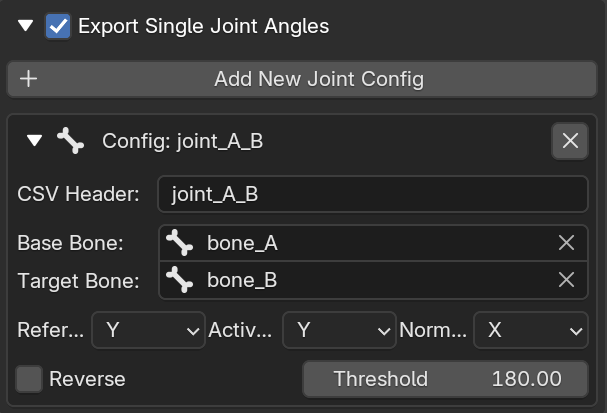
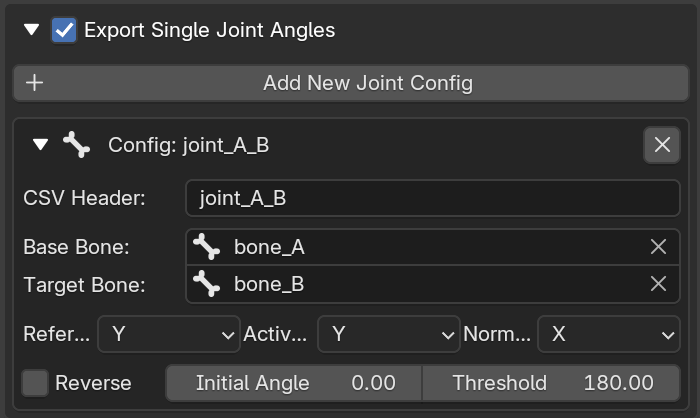
main:Fixed the base_link bone export bug. This version of the bone pose export will not be affected by the bone's scaling and rotation attributes. The exported position and quaternion rotation are the positions and rotations seen by the user when they actually play the animation.

diff --git a/pose2roboaction/operators.py b/pose2roboaction/operators.py
@@ -2,7 +2,7 @@ import bpy
 import csv
 import math
 import mathutils
-import os # 【新增】：引入操作系统模块，用于自动创建文件夹
+import os
 from bpy.props import IntProperty
 from bpy.app.translations import pgettext_iface as iface_
 from .math_utils import get_bone_axis_vector, calculate_planar_angle_0_360
@@ -115,7 +115,6 @@ class Pose2Robo_OT_ExportCSV(bpy.types.Operator):
             props = scene.pose2robo_settings
             obj = props.target_armature
 
-            # 保留你习惯的数值，不作修改
             batch_size = 10 
             
             try:
@@ -131,17 +130,18 @@ class Pose2Robo_OT_ExportCSV(bpy.types.Operator):
                     
                     if self.valid_a_bone:
                         pb = obj.pose.bones[self.valid_a_bone]
-                        mat_world = pb.matrix 
-                        loc = mat_world.to_translation()
+                        
+                        mat_world = obj.matrix_world @ pb.matrix
+                        loc, rot, sca = mat_world.decompose()
+                        
                         row.extend([f"{loc.x:.6f}", f"{loc.y:.6f}", f"{loc.z:.6f}"])
                         
-                        raw_quat = mat_world.to_quaternion()
                         corr_rad = props.correction_euler
                         if any(abs(a) > 1e-5 for a in corr_rad):
                             corr_quat = mathutils.Euler((corr_rad.x, corr_rad.y, corr_rad.z), 'XYZ').to_quaternion()
-                            final_quat = raw_quat @ corr_quat
+                            final_quat = rot @ corr_quat
                         else:
-                            final_quat = raw_quat
+                            final_quat = rot
                             
                         row.extend([
                             f"{final_quat.x:.6f}", f"{final_quat.y:.6f}",
@@ -159,21 +159,37 @@ class Pose2Robo_OT_ExportCSV(bpy.types.Operator):
                         theta_curr = calculate_planar_angle_0_360(vec_k, vec_i, vec_j)
                         theta_rest = self.rest_angles[item.joint_name]
                         
-                        val = theta_curr - theta_rest
+                        # --- 【核心算法优化：引入 Offset 和真实 URDF 越界判定】 ---
                         
-                        while val < 0.0: val += 360.0
-                        while val >= 360.0: val -= 360.0
-
-                        if val > item.threshold:
-                            val = val - 360.0
+                        # 1. 计算 Blender 里的原始运动量
+                        delta_blender = theta_curr - theta_rest
                         
-                        if item.is_reverse:
-                            val = -val
+                        # 2. 映射运动方向 (仅反转相对运动量)
+                        delta_move = -delta_blender if item.is_reverse else delta_blender
                         
+                        # 3. 处理用户输入的初始角度单位 (将其统一转换为度数进行计算)
+                        offset_val = item.offset_angle
                         if props.angle_unit == 'RADIAN':
-                            final_val = math.radians(val)
+                            offset_deg = math.degrees(offset_val)
                         else:
-                            final_val = val
+                            offset_deg = offset_val
+                            
+                        # 4. 推算 URDF 绝对角度并归一化到圆盘
+                        theta_abs = offset_deg + delta_move
+                        theta_abs = theta_abs % 360.0  # 完美替代了之前的两个 while 循环
+                        
+                        # 5. URDF 真实阈值判定
+                        if theta_abs > item.threshold:
+                            final_deg = theta_abs - 360.0
+                        else:
+                            final_deg = theta_abs
+                        
+                        # 6. 单位输出
+                        if props.angle_unit == 'RADIAN':
+                            final_val = math.radians(final_deg)
+                        else:
+                            final_val = final_deg
+                        # ------------------------------------------------------------
                             
                         row.append(f"{final_val:.6f}")
                         
@@ -201,12 +217,9 @@ class Pose2Robo_OT_ExportCSV(bpy.types.Operator):
         try:
             export_path = bpy.path.abspath(props.export_path)
             
-            # --- 【核心修改点】：智能检查并创建不存在的文件夹 ---
             dir_name = os.path.dirname(export_path)
             if dir_name:  
-                # exist_ok=True 代表如果文件夹已存在则忽略，不报错
                 os.makedirs(dir_name, exist_ok=True)
-            # ----------------------------------------------------
 
             with open(export_path, mode='w', newline='', encoding='utf-8') as file:
                 writer = csv.writer(file)

diff --git a/pose2roboaction/ui.py b/pose2roboaction/ui.py
@@ -16,13 +16,11 @@ class VIEW3D_PT_Pose2Robo_Main(Panel):
         # --- 1. 全局配置 ---
         box = layout.box()
         
-        # 绘制带折叠三角的标题栏
         header_global = box.row(align=True)
         icon_state_global = 'TRIA_DOWN' if props.is_expanded_global else 'TRIA_RIGHT'
         header_global.prop(props, "is_expanded_global", text="", icon=icon_state_global, emboss=False)
         header_global.label(text=iface_("Global Settings"), icon='WORLD')
         
-        # 只有在展开状态下才显示内部选项
         if props.is_expanded_global:
             col = box.column(align=True)
             col.prop(props, "export_path", text=iface_("Export Path"))
@@ -34,7 +32,6 @@ class VIEW3D_PT_Pose2Robo_Main(Panel):
             row_unit.prop(props, "angle_unit", expand=True) 
 
         # --- 2. Config A ---
-        #layout.separator()
         box_a = layout.box()
         
         header_a = box_a.row(align=True)
@@ -69,16 +66,13 @@ class VIEW3D_PT_Pose2Robo_Main(Panel):
             col.prop(props, "correction_euler", text=iface_("Euler Correction"))
 
         # --- 3. Config B ---
-        #layout.separator()
         box_b = layout.box()
         
-        # 带折叠三角的 Config B 头部栏
         header_b = box_b.row(align=True)
         icon_state_b = 'TRIA_DOWN' if props.is_expanded_b else 'TRIA_RIGHT'
         header_b.prop(props, "is_expanded_b", text="", icon=icon_state_b, emboss=False)
         header_b.prop(props, "export_joints", text=iface_("Export Single Joint Angles"))
         
-        # 只有展开且勾选时才显示内部的卡片流
         if props.is_expanded_b and props.export_joints:
             box_b.operator("pose2robo.list_add", icon='ADD', text=iface_("Add New Joint Config"))
             
@@ -114,9 +108,15 @@ class VIEW3D_PT_Pose2Robo_Main(Panel):
                     row_axes.prop(item, "axis_k", text=iface_("Normal k"))
                     col.separator()
                     
-                    row_opt = col.row(align=True)
-                    row_opt.prop(item, "is_reverse", text=iface_("Reverse"))
-                    row_opt.prop(item, "threshold", text=iface_("Threshold"))
+                    # 【核心修改】：将“初始角度”插入到布局中
+                    # 使用 split 手动划分宽度比例：前 20% 给复选框，后 75% 给数值框
+                    split = col.split(factor=0.2, align=True)
+                    split.prop(item, "is_reverse", text=iface_("Reverse"))
+
+                    # 在右侧的 75% 区域内创建一个紧凑的行
+                    row_floats = split.row(align=True)
+                    row_floats.prop(item, "offset_angle", text=iface_("Initial Angle"))
+                    row_floats.prop(item, "threshold", text=iface_("Threshold"))
 
         # --- 4. 动态显示 ---
         layout.separator()

diff --git a/pose2roboaction/properties.py b/pose2roboaction/properties.py
@@ -18,10 +18,11 @@ class Pose2Robo_JointItem(PropertyGroup):
     axis_k: EnumProperty(name="Axis K", items=axis_items, default='Z')
     
     is_reverse: BoolProperty(name="Reverse", default=False)
+    # 【新增】：初始角度（URDF零位偏移量）
+    offset_angle: FloatProperty(name="Initial Angle", default=0.0)
     threshold: FloatProperty(name="Threshold", default=180.0, min=0, max=360, soft_min=0, soft_max=360)
 
 class Pose2Robo_Settings(PropertyGroup):
-    # 【修改点】：将默认路径改为相对工程目录的 CsvOutput 文件夹
     export_path: StringProperty(name="Export Path", subtype='FILE_PATH', default="//CsvOutput/export.csv", options={'PATH_SUPPORTS_BLEND_RELATIVE'})
     target_armature: PointerProperty(name="Target Armature", type=bpy.types.Object)
 
@@ -35,9 +36,7 @@ class Pose2Robo_Settings(PropertyGroup):
         default='RADIAN'
     )
 
-    # --- 全局配置的展开状态控制 ---
     is_expanded_global: BoolProperty(name="Expand Global Panel", default=True)
-
     is_expanded_a: BoolProperty(name="Expand Panel A", default=True)
 
     export_root: BoolProperty(name="Export Single Bone Full Space Pose", default=True)
@@ -51,9 +50,7 @@ class Pose2Robo_Settings(PropertyGroup):
     rot_w_name: StringProperty(name="rot w", default="root rot w")
     correction_euler: FloatVectorProperty(name="Euler Correction", subtype='EULER', default=(0.0, 0.0, 0.0))
 
-    # --- Config B 的整体展开状态控制 ---
     is_expanded_b: BoolProperty(name="Expand Panel B", default=True)
-
     export_joints: BoolProperty(name="Export Single Joint Angles", default=True)
     joints_list: CollectionProperty(type=Pose2Robo_JointItem)
     list_index: IntProperty(name="List Index", default=0)

diff --git a/pose2roboaction/translations.py b/pose2roboaction/translations.py
@@ -28,6 +28,7 @@ zh_hans_dict = {
     ("*", "Active j"): "活动j",
     ("*", "Normal k"): "法线k",
     ("*", "Reverse"): "是否反转",
+    ("*", "Initial Angle"): "初始角度",
     ("*", "Threshold"): "角度阈值",
     ("*", "Start Exporting CSV Sequence"): "开始导出 CSV 序列",
     ("*", "Exporting..."): "导出中...",
@@ -88,6 +89,7 @@ zh_hant_dict = {
     ("*", "Active j"): "活動 j",
     ("*", "Normal k"): "法線 k",
     ("*", "Reverse"): "是否反轉",
+    ("*", "Initial Angle"): "初始角度",
     ("*", "Threshold"): "角度閾值",
     ("*", "Start Exporting CSV Sequence"): "開始導出 CSV 序列",
     ("*", "Exporting..."): "導出中...",

diff --git a/readme.md b/readme.md
@@ -71,6 +71,8 @@ Exporting an action sequence takes just three simple steps:
 
 - **Normal k**: Select one axis of the Base Bone's coordinate system to determine the plane onto which **Reference i** and **Active j** will be projected. This plane is the normal plane of **Normal k**. The angle is calculated after projecting **Reference i** and **Active j** onto this plane.
 
+- **Initial Angle**: Used to manually specify the absolute physical angle of the corresponding URDF joint on the real robot when the Blender armature is in its rest pose (Edit Mode). This value serves as the base zero-position offset for calculating the final absolute angle in the real world.
+
 - **Reverse**: Used to control whether the output value is multiplied by $-1$.
 
 - **Threshold**: The threshold to determine the forward/reverse rollover of the robot joint, defaulting to $180^\circ$. When the rotation angle exceeds this threshold, it will be remapped to a reverse rotation. (For example, if the threshold is set to $210^\circ$, when the joint angle is $200^\circ$ (Rest pose is considered $0^\circ$), the plugin exports it as $200^\circ$. If the angle exceeds the threshold, e.g., $300^\circ$, the plugin considers it as a reverse rotation of $60^\circ$ ($300^\circ - 360^\circ$) and exports it as $-60^\circ$).
@@ -127,27 +129,45 @@ $$
 Before exporting, the system pre-calculates the initial angle $\theta_{\text{rest}}$ when the armature is in its rest pose. When iterating through the animation frames, it calculates the net displacement for each frame:
 
 $$
-\Delta\theta = \theta_{\text{current}} - \theta_{\text{rest}}
+\Delta\theta_{\text{blender}} = \theta_{\text{current}} - \theta_{\text{rest}}
 $$
 
-#### 4. Post-Processing
+#### 4. URDF Angle Calculation & Post-Processing
 
-1. **Thresholding**:
-   When $\Delta\theta > \text{Threshold}$, the system automatically executes:
+In this stage, the system seamlessly maps the relative motion in Blender to the absolute angle in the real robot URDF coordinate system.
 
-$$
-\Delta\theta = \Delta\theta - 360^\circ
-$$
-
-2. **Reverse**:
-   If "Reverse" is checked, then:
+1. **Map Motion Direction**: 
+   If "Reverse" is checked on the panel, it means the positive rotation direction of the URDF joint is opposite to that of Blender. The system only reverses the **motion delta**:
 
 $$
-\Delta\theta = -\Delta\theta
+\Delta\theta_{\text{move}} = -\Delta\theta_{\text{blender}}
 $$
 
-3. **Unit Conversion**:
-   According to the global settings, the degrees are either output directly or converted to radians and written to the CSV sequence.
+   *(If unchecked, then $\Delta\theta_{\text{move}} = \Delta\theta_{\text{blender}}$)*
+
+2. **Calculate URDF Absolute Angle**:
+   Add the above motion delta to the user-specified "Initial Angle" to calculate the absolute angle of the current joint in the real world:
+
+$$
+\theta_{\text{abs}} = \theta_{\text{offset}} + \Delta\theta_{\text{move}}
+$$
+
+3. **Normalization**:
+   Use modulo operation to forcefully map and truncate the absolute angle into a positive single-circle range:
+
+$$
+\theta_{\text{norm}} = \theta_{\text{abs}} \pmod{360^\circ}
+$$
+
+4. **Real Physical Thresholding**:
+   The angle at this point is the pure actual robot angle ($[0^\circ, 360^\circ)$). Directly apply the user's rollover threshold based on this. When $\theta_{\text{norm}} > \text{Threshold}$, the system will automatically execute a rollover:
+
+$$
+\text{Final Angle} = \theta_{\text{norm}} - 360^\circ
+$$
+
+5. **Unit Conversion**:
+   According to the global settings, the final degrees are either output directly or converted to radians and written to the CSV sequence.
 
 ---
 

diff --git a/example/example_en.md b/example/example_en.md
@@ -34,7 +34,7 @@
   <img src="../media/example_en_3.png" alt="" width="400">
 </p>
 
-3. Then, create a new joint configuration. I named the CSV Header `joint_A_B`, selected `bone_A` as the Base Bone, and `bone_B` as the Target Bone. `bone_A` is the parent of `bone_B` (generally, the Base Bone is the parent of the Target Bone, but the plugin also works for two bones without a parent-child relationship). Select the `Y-axis` for both Reference i and Active j. As seen in the image above, the joint angle we actually want to export is the angle between the `Y-axis` of `bone_A` and the `Y-axis` of `bone_B`. The `Y-axis` selected for Reference i is the `Y-axis` of the Base Bone, and the `Y-axis` selected for Active j is the `Y-axis` of the Target Bone. The axis specified by Reference i will act as a stationary reference for the axis specified by Active j. The exported value is the angle between the `i-axis` and the `j-axis` projected onto the normal plane of Normal k (this angle is considered 0° in the rest pose). Rotating along the positive direction of Normal k results in a positive angle. Here, we select the `X-axis` for Normal k (referring to the `X-axis` of `bone_A`). We do not need to check Reverse here. If the axis selected for Normal k is opposite to the joint axis direction in your URDF, you will need to check Reverse. I set the Threshold to 180° here. In most cases, 180° is appropriate. If you notice that the angle sequence data in the exported CSV jumps from x° to -(360°-x°), you will need to adjust this threshold.
+3. Then, create a new joint configuration. I named the CSV Header `joint_A_B`, selected `bone_A` as the Base Bone, and `bone_B` as the Target Bone. `bone_A` is the parent of `bone_B` (generally, the Base Bone is the parent of the Target Bone, but the plugin also works for two bones without a parent-child relationship). Select the `Y-axis` for both Reference i and Active j. As seen in the image above, the joint angle we actually want to export is the angle between the `Y-axis` of `bone_A` and the `Y-axis` of `bone_B`. The `Y-axis` selected for Reference i is the `Y-axis` of the Base Bone, and the `Y-axis` selected for Active j is the `Y-axis` of the Target Bone. The axis specified by Reference i will act as a stationary reference for the axis specified by Active j. The exported value is the angle between the `i-axis` and the `j-axis` projected onto the normal plane of Normal k (This angle is regarded as the user-specified **Initial Angle** in the static posture.). Rotating along the positive direction of Normal k results in a positive angle. Here, we select the `X-axis` for Normal k (referring to the `X-axis` of `bone_A`). We do not need to check Reverse here. If the axis selected for Normal k is opposite to the joint axis direction in your URDF, you will need to check Reverse. I set the Threshold to 180° here. In most cases, 180° is appropriate. If you notice that the angle sequence data in the exported CSV jumps from x° to -(360°-x°), you will need to adjust this threshold.
 
 4. Finally, click the `Start Exporting CSV Sequence` button and wait for the export to complete.
 

diff --git a/readme_zh.md b/readme_zh.md
@@ -73,6 +73,8 @@
 
 - **反向**：用于控制是否将输出的值乘以 $-1$。
 
+- **初始角度:** 用于手动指定当前骨架在静止姿态（Rest Pose / 编辑模式）下，所对应的真实机器人 URDF 的 joint 角度。该值将作为基准零位偏移量（Offset），用于推算关节在  URDF模型中的最终角度。 
+
 - **阈值**：判断机器人关节正/反转翻转的阈值，默认为 $180^\circ$。当旋转角度超过该阈值时将被重映射为反方向旋转（例如将阈值设置为 $210^\circ$,当关节角度为 $200^\circ$ 时(静置姿态视为 $0^\circ$),插件将其视为 $200^\circ$ 导出,如果角度超过阈值,例如 $300^\circ$,则插件将其视为反方向旋转 $60^\circ$($300^\circ-360^\circ$)导出,即 $-60^\circ$）。
 
 ---
@@ -127,27 +129,45 @@ $$
 系统会在导出前，预先计算一遍骨架处于静止姿态时的初始夹角 $\theta_{\text{rest}}$。在遍历动画帧时，计算每一帧的净位移：
 
 $$
-\Delta\theta = \theta_{\text{current}} - \theta_{\text{rest}}
+\Delta\theta_{\text{blender}} = \theta_{\text{current}} - \theta_{\text{rest}}
 $$
 
-#### 4. 数据后处理
+#### 4. URDF角度推算与后处理
 
-1. **阈值重映射 (Thresholding)**：
-   当 $\Delta\theta > \text{Threshold}$ 时，系统会自动执行：
+在此阶段，系统将 Blender 中的相对运动量无缝映射为真实机器人 URDF 坐标系下的绝对角度。
 
-$$
-\Delta\theta = \Delta\theta - 360^\circ
-$$
-
-2. **反向**：
-   如果勾选了“反向”，则：
+1. **映射运动方向**： 
+   如果面板勾选了“反向”，说明 URDF 关节的旋转正方向与 Blender 相反。系统仅对**运动增量**进行反转：
 
 $$
-\Delta\theta = -\Delta\theta
+\Delta\theta_{\text{move}} = -\Delta\theta_{\text{blender}}
 $$
 
-3. **单位转换**：
-   根据全局设置，将度数直接输出，或转换为弧度写入 CSV 序列。
+   *(若未勾选，则 $\Delta\theta_{\text{move}} = \Delta\theta_{\text{blender}}$)*
+
+2. **推算 URDF 绝对角度**：
+   将上述运动增量，叠加到用户手动指定的“初始角度”上，推算出当前关节在真实世界中的绝对角度：
+
+$$
+\theta_{\text{abs}} = \theta_{\text{offset}} + \Delta\theta_{\text{move}}
+$$
+
+3. **归一化**：
+   利用取模运算，将绝对角度强行映射并截断至正数单圈范围内：
+
+$$
+\theta_{\text{norm}} = \theta_{\text{abs}} \pmod{360^\circ}
+$$
+
+4. **真实物理阈值判定**：
+   此时的角度已经是纯正的机器人实际角度($[0^\circ, 360^\circ)$)。直接在此基础上套用用户的翻转阈值。当 $\theta_{\text{norm}} > \text{Threshold}$ 时，系统会自动执行翻转：
+
+$$
+\text{Final Angle} = \theta_{\text{norm}} - 360^\circ
+$$
+
+5. **单位转换**：
+   根据全局设置，将最终的度数直接输出，或转换为弧度写入 CSV 序列。
 
 ---
 

diff --git a/example/example_zh.md b/example/example_zh.md
@@ -34,7 +34,7 @@
   <img src="../media/example_zh_3.png" alt="" width="400">
 </p>
 
-3.然后新建一条关节配置,我将csv表头命名为了`joint_A_B`,基准骨骼选择`bone_A`,目标骨骼选择`bone_B`,`bone_A`为`bone_B`的父级(一般来说,基准骨骼为目标骨骼的父级,但该插件对于不为父子级的两根骨骼也有效),`基准i`和`活动j`都选择`Y轴`,从上面的图片中可以看到,我们其实要导出的关节夹角就是`bone_A`的`Y轴`和`bone_B`的`Y轴`之间的夹角,`基准i`选择的`Y轴`为`基准骨骼`的Y轴,`活动j`选择的`Y轴`为`目标骨骼`的`Y轴`,`基准i`所指定的轴会被`活动j`指定的轴作为静止参照,导出值为`i轴`与`j轴`投影到`法线k轴`的法平面上的夹角(该夹角在静止姿态时视为0°),沿`法线k轴`正方向旋转为正角度;在这里`法线k`我们选择`X轴`(指`bone_A`的`X轴`),在这里我们不需要勾选反向,如果在你的urdf中,如果`法线k`选择的轴与你的urdf中joint轴方向相反,则需要勾选反向,这里我将阈值设置为了180°,在大多数情况下,180°是合适的,如果你发现导出的csv中的角度序列数据发生了从x°到-(360°-x°)的跳变,此时需要调整该阈值。
+3.然后新建一条关节配置,我将csv表头命名为了`joint_A_B`,基准骨骼选择`bone_A`,目标骨骼选择`bone_B`,`bone_A`为`bone_B`的父级(一般来说,基准骨骼为目标骨骼的父级,但该插件对于不为父子级的两根骨骼也有效),`基准i`和`活动j`都选择`Y轴`,从上面的图片中可以看到,我们其实要导出的关节夹角就是`bone_A`的`Y轴`和`bone_B`的`Y轴`之间的夹角,`基准i`选择的`Y轴`为`基准骨骼`的Y轴,`活动j`选择的`Y轴`为`目标骨骼`的`Y轴`,`基准i`所指定的轴会被`活动j`指定的轴作为静止参照,导出值为`i轴`与`j轴`投影到`法线k轴`的法平面上的夹角(该夹角在静止姿态时视为用户指定的 **初始角度** ),沿`法线k轴`正方向旋转为正角度;在这里`法线k`我们选择`X轴`(指`bone_A`的`X轴`),在这里我们不需要勾选反向,如果在你的urdf中,如果`法线k`选择的轴与你的urdf中joint轴方向相反,则需要勾选反向,这里我将阈值设置为了180°,在大多数情况下,180°是合适的,如果你发现导出的csv中的角度序列数据发生了从x°到-(360°-x°)的跳变,此时需要调整该阈值。
 
 4.然后点击`开始导出CSV序列`按钮,等待导出完成即可。
 
